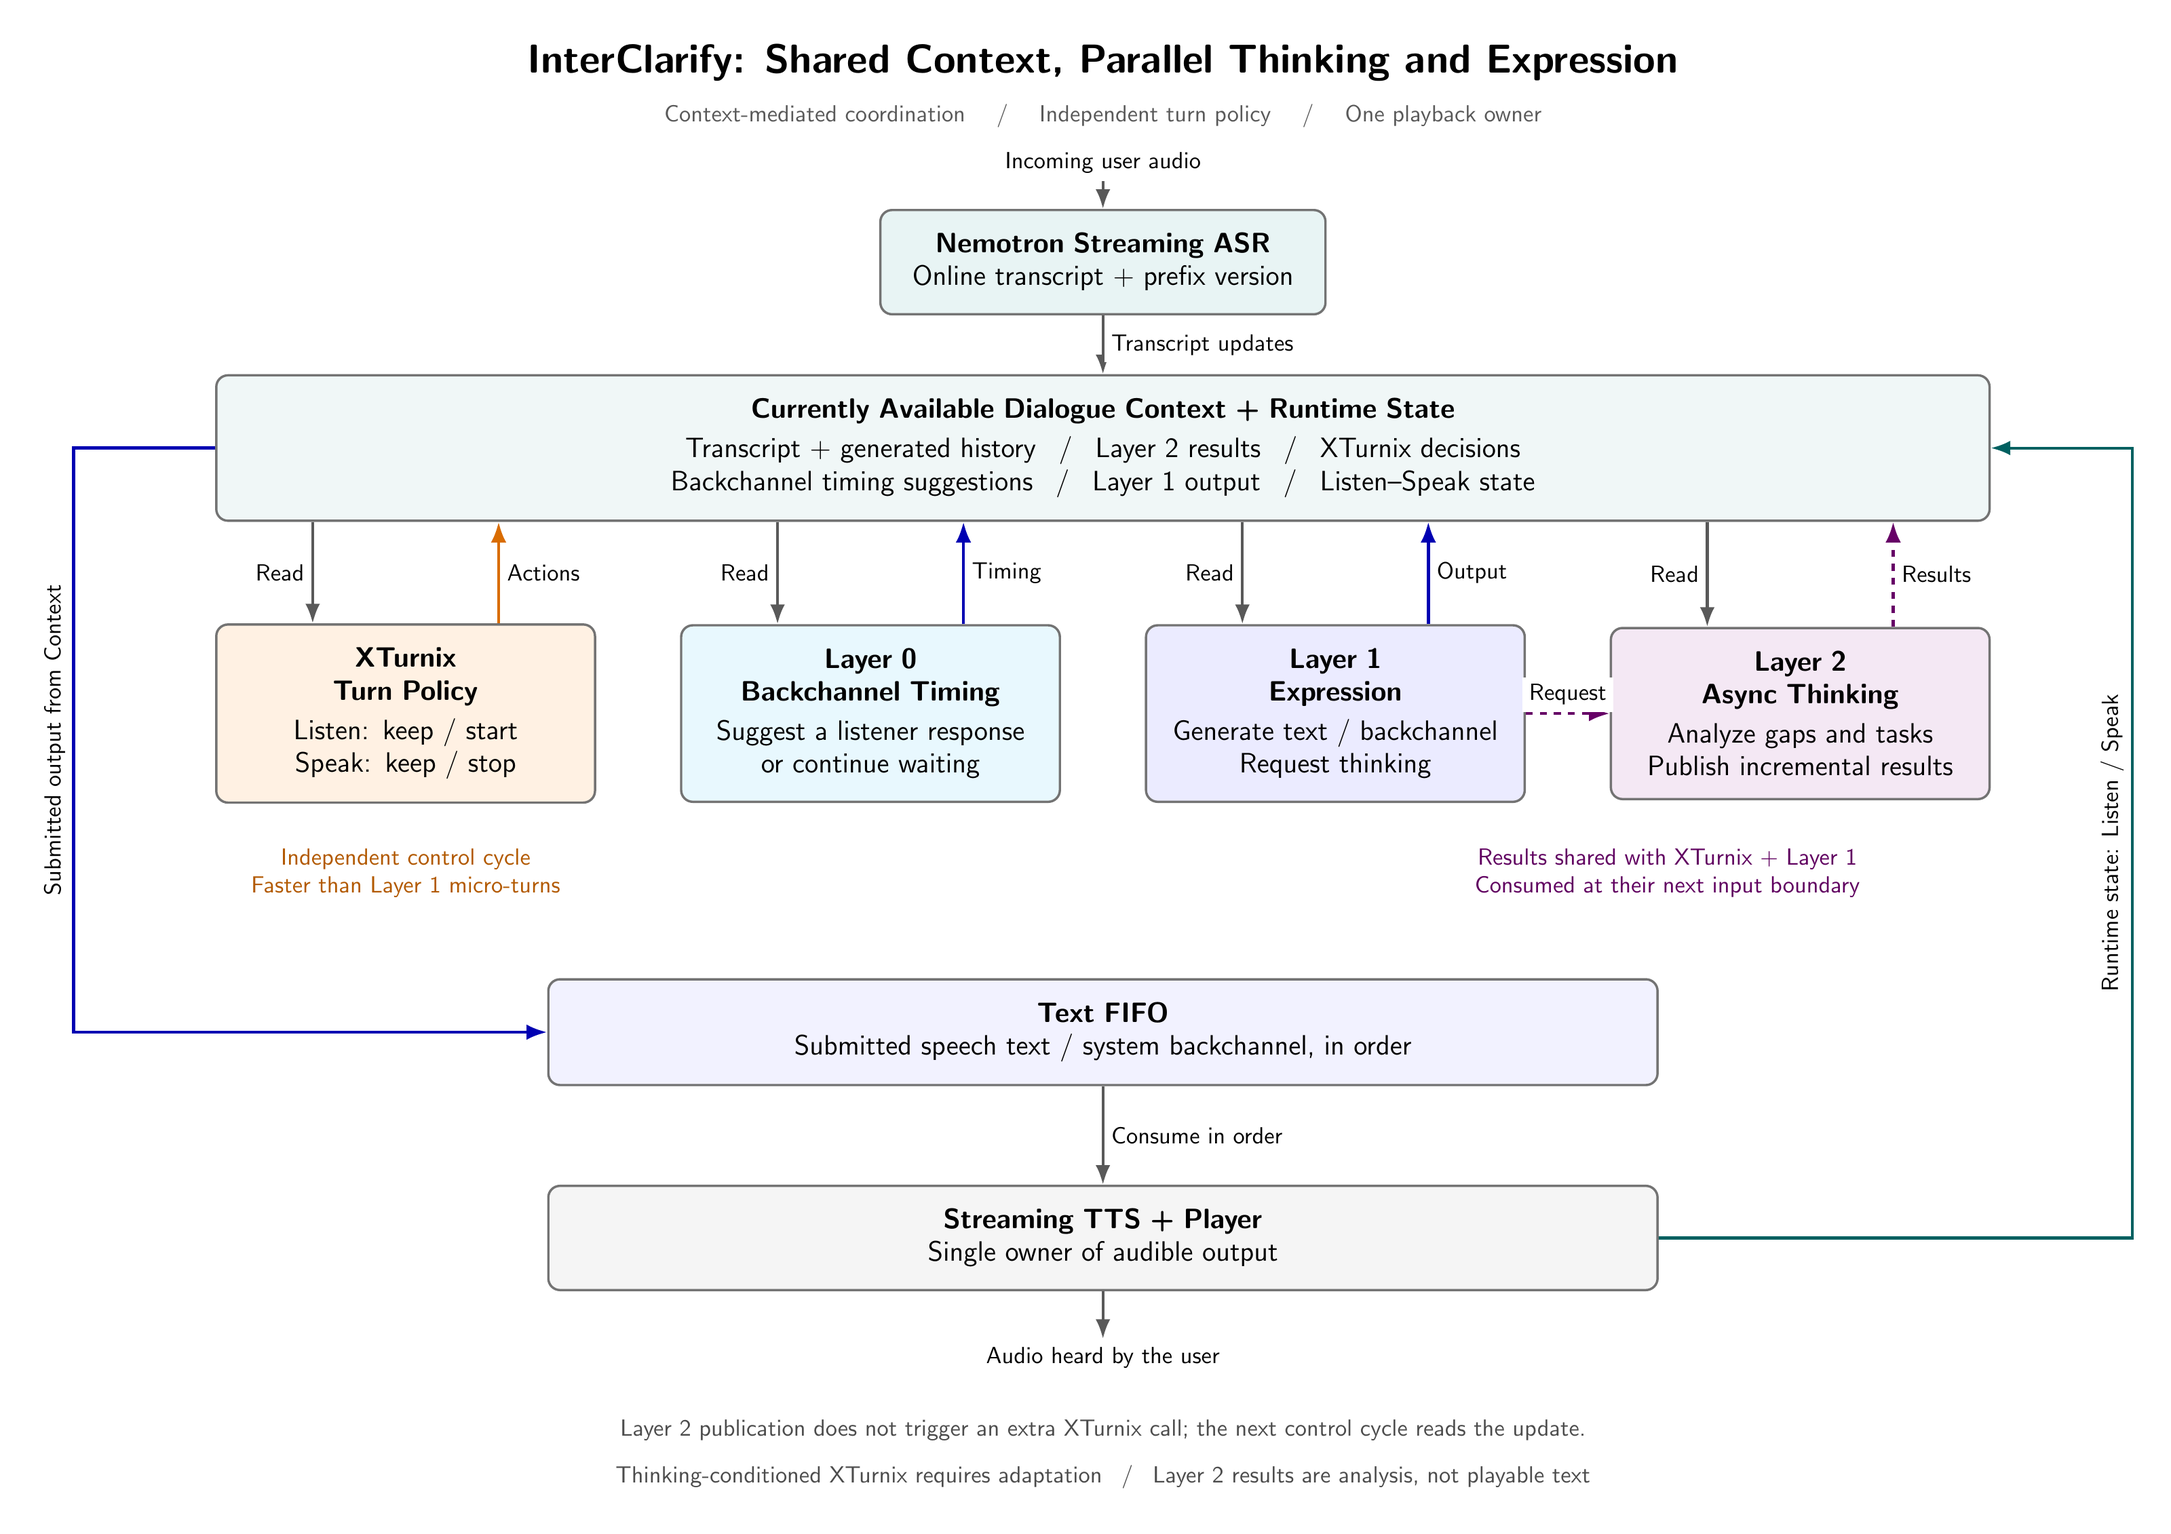
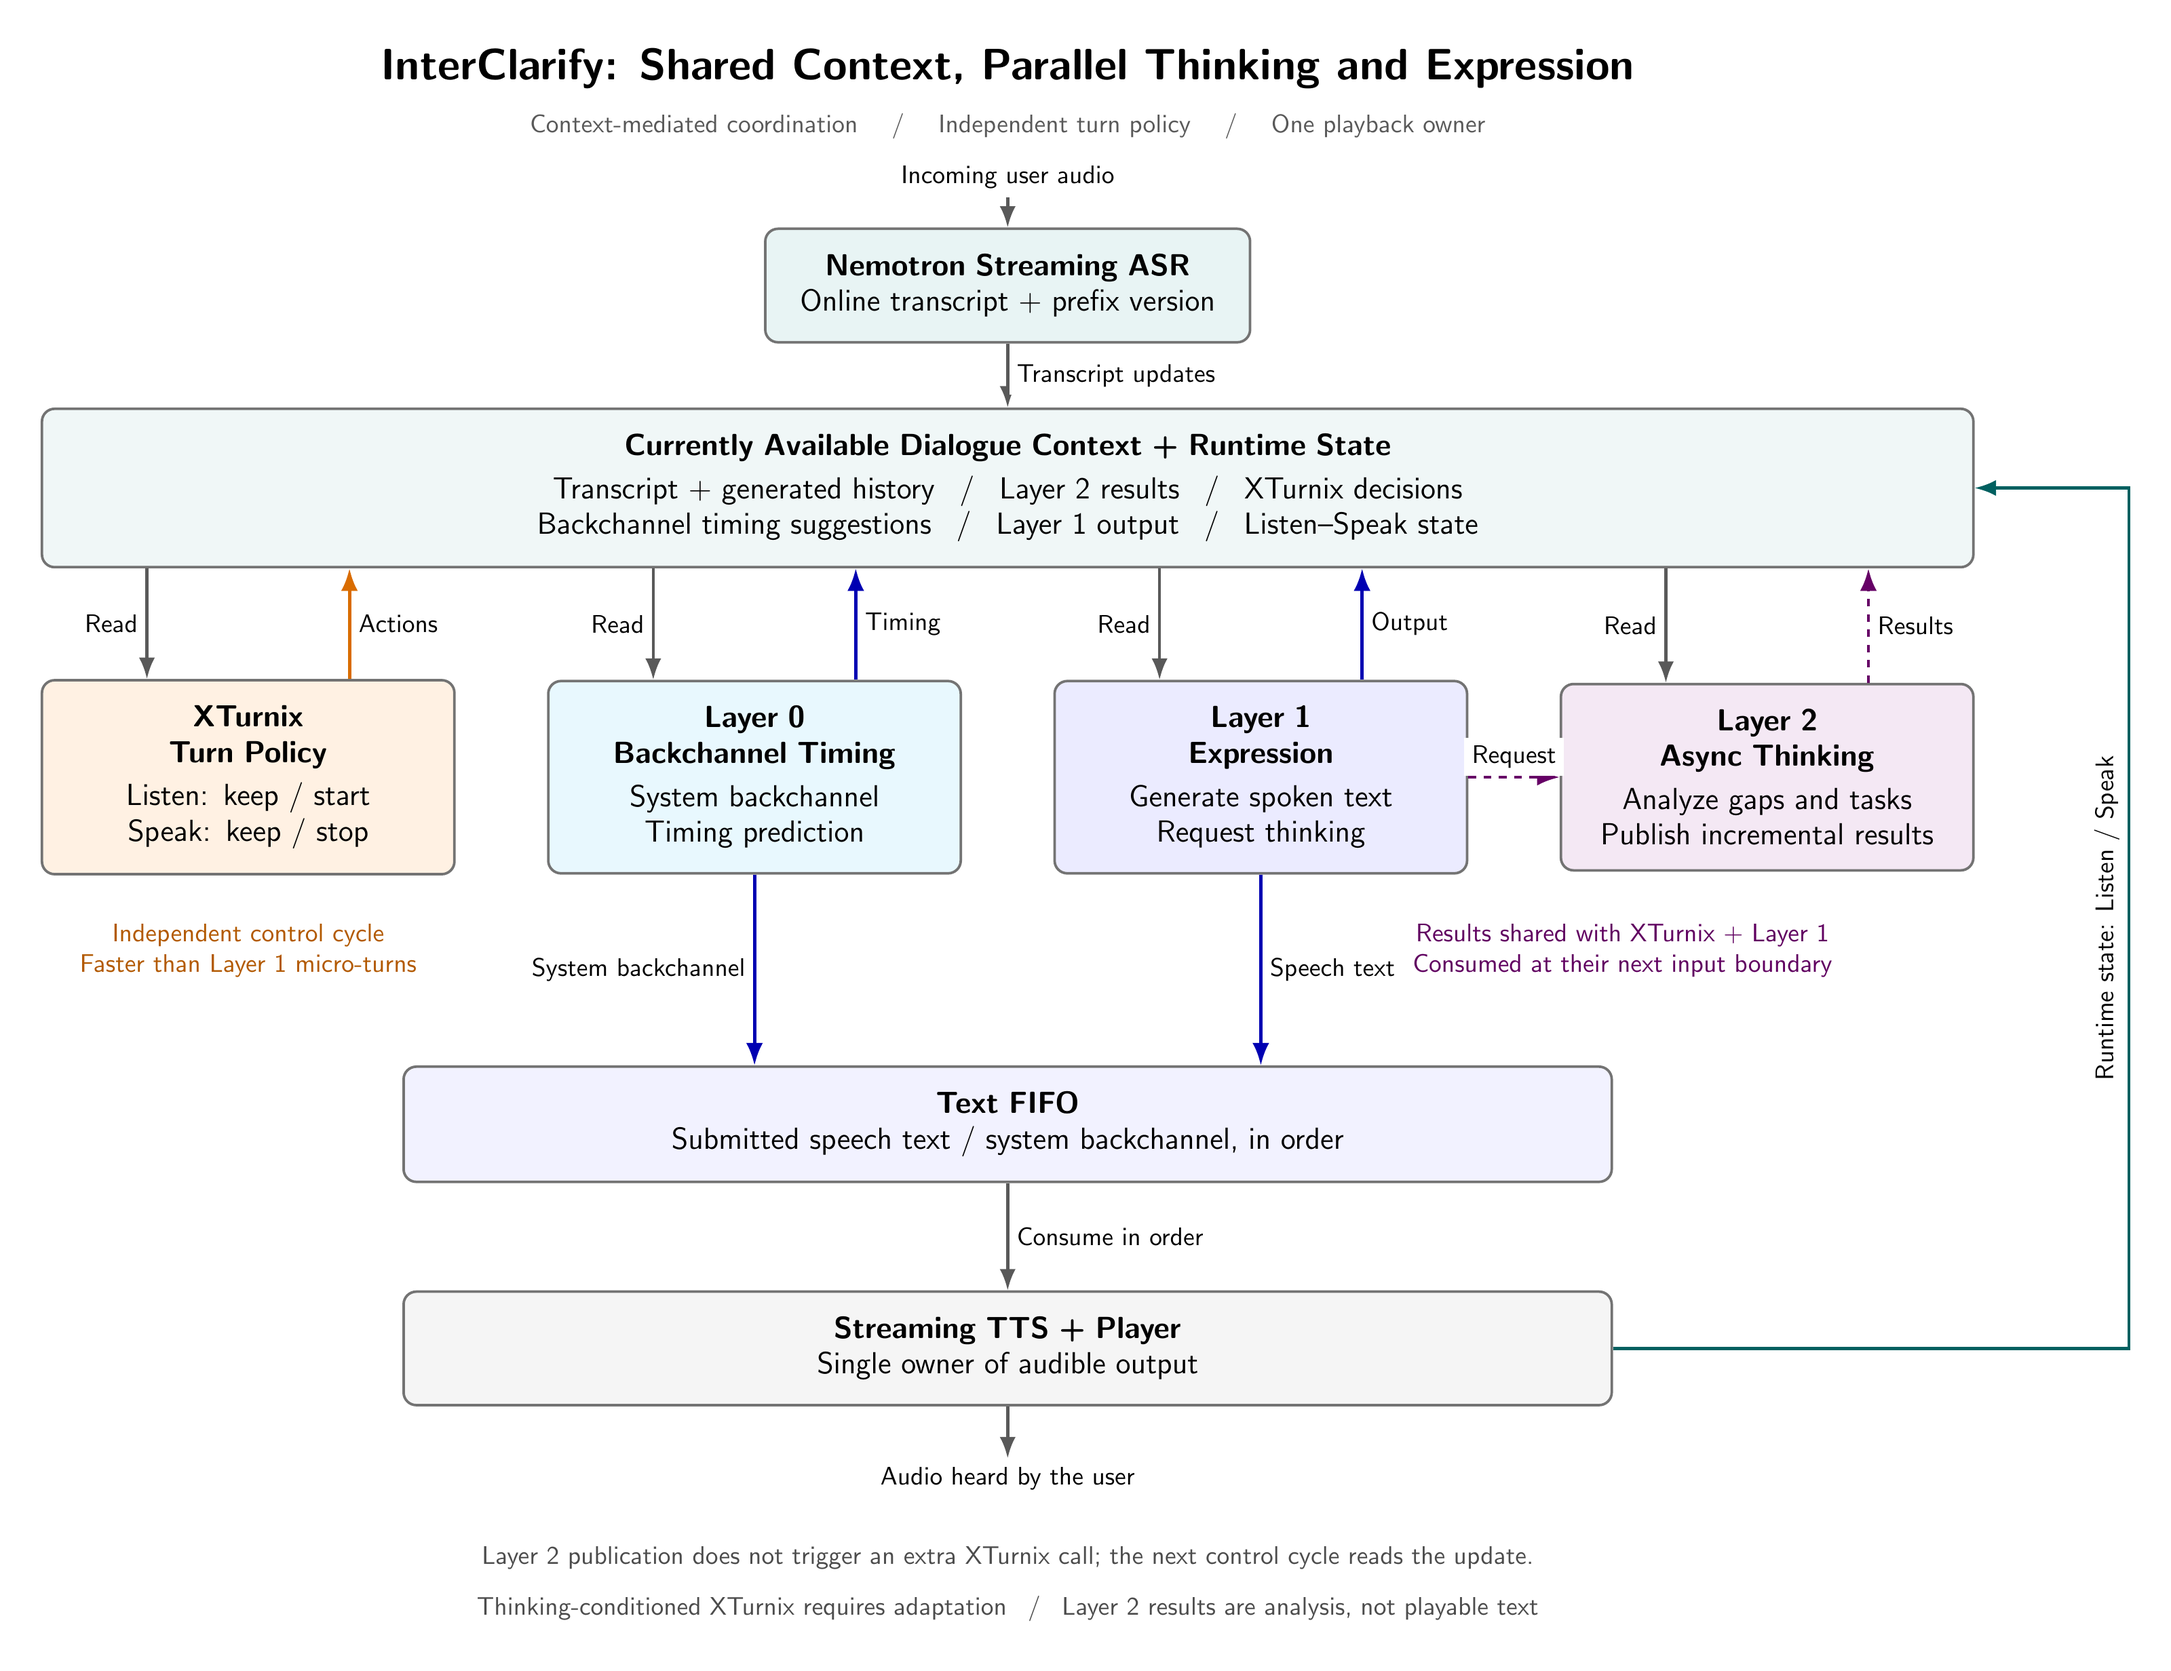
Connect Layer 0 and Layer 1 directly to text FIFO

diff --git a/figures/interclarify_method.tex b/figures/interclarify_method.tex
@@ -32,10 +32,10 @@
      Listen: keep / start\\Speak: keep / stop};
   \node[box,fill=cyan!9] (l0) at (7,7.2)
     {\textbf{Layer 0}\\\textbf{Backchannel Timing}\\[3pt]
-     Suggest a listener response\\or continue waiting};
+     System backchannel\\Timing prediction};
   \node[box,fill=blue!8] (l1) at (14,7.2)
     {\textbf{Layer 1}\\\textbf{Expression}\\[3pt]
-     Generate text / backchannel\\Request thinking};
+     Generate spoken text\\Request thinking};
   \node[box,fill=violet!9] (l2) at (21,7.2)
     {\textbf{Layer 2}\\\textbf{Async Thinking}\\[3pt]
      Analyze gaps and tasks\\Publish incremental results};
@@ -61,8 +61,8 @@
 
   \node[wide,fill=blue!5] (fifo) at (10.5,2.4)
     {\textbf{Text FIFO}\\Submitted speech text / system backchannel, in order};
-  \draw[write] (context.west) -- (-5,11.2) --
-    node[label,rotate=90,above] {Submitted output from Context} (-5,2.4) -- (fifo.west);
+  \draw[write] (l0.south) -- node[label,left] {System backchannel} (l0.south |- fifo.north);
+  \draw[write] (l1.south) -- node[label,right] {Speech text} (l1.south |- fifo.north);
 
   \node[wide,fill=gray!8] (playback) at (10.5,-.7)
     {\textbf{Streaming TTS + Player}\\Single owner of audible output};

diff --git a/docs/figures/interclarify_method_preview.md b/docs/figures/interclarify_method_preview.md
@@ -6,7 +6,7 @@
 
 使用 `standalone` 文档类加载 TikZ 库，通过 `input` 包含[架构图源码](../../figures/interclarify_method.tex)。外围保留 16pt 留白，图内使用较大英文文字。文件没有运行时类或方法，不包含模型调用或播放逻辑。模块职责和连线解释见[图示说明](interclarify_method.md)。
 
-本版展示各模块对共享 Context 的读取和写回、独立高频 XTurnix 周期，以及 Text FIFO 到单一播放器的输出路径；移除旧版独立 Arbiter，不展示打断处理时序。
+本版展示各模块对共享 Context 的读取和写回、独立高频 XTurnix 周期，以及 Layer 0/1 直接提交至 Text FIFO、再到单一播放器的输出路径；Context 不向 FIFO 提交文本。移除旧版独立 Arbiter，不展示打断处理时序。
 
 产物为可任意放大的[矢量 PDF](../../figures/interclarify_method_preview.pdf)，以及便于直接查看的[高清 PNG](../../figures/interclarify_method_preview.png)。两者来自同一次构建。
 
